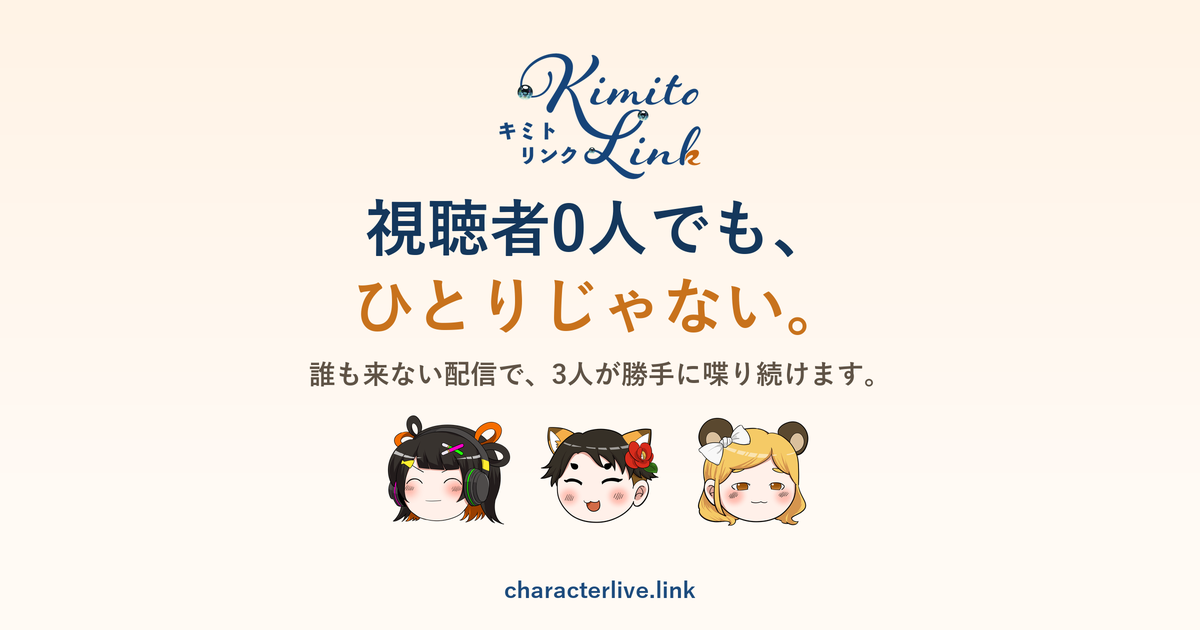
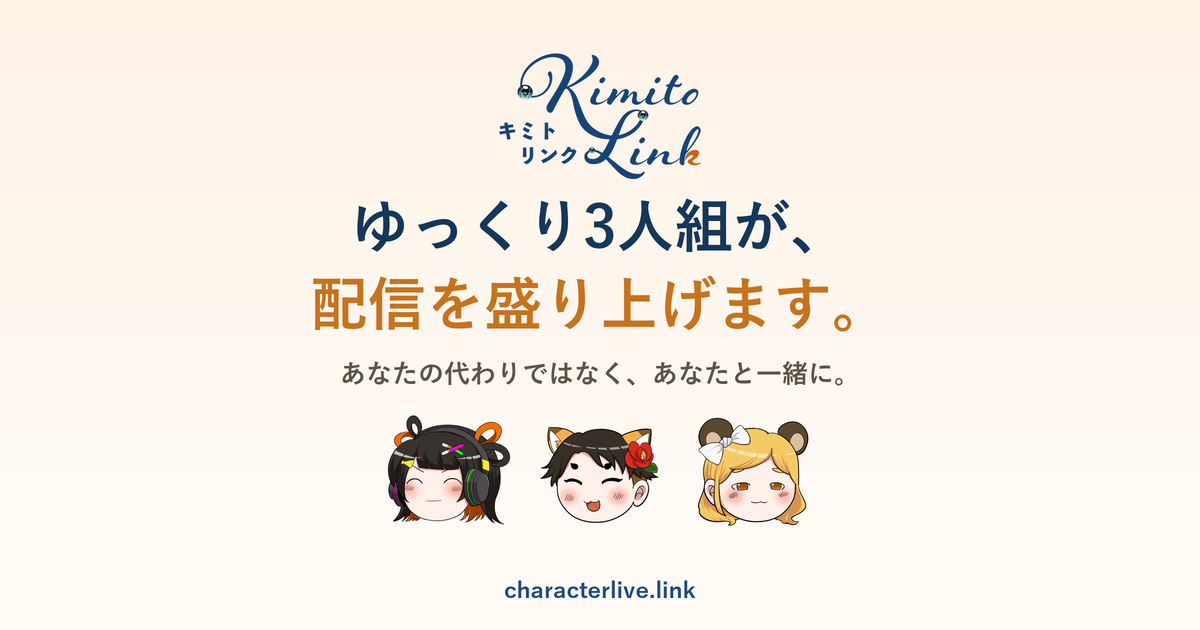
feat(lp): コピーをAに決定「ゆっくり3人組が、配信を盛り上げます。」
★会議で決定（調査に基づく方針転換）:

■ 孤独を言葉にしない
調査で【孤独を前面に出した製品だけが停止していた】(AI視聴者ジェネレーター
「配信に自信が持てないあなたへ」→更新終了)。一方 ai_licia は孤独ゼロで1万人超。
配信者は痛みを感じているが「人が来ないのは仕組みが無いだけ」と言われたい。
「寂しいですね」は"あなたの問題"にしてしまう。
さらに孤独訴求は【成長すると対象外になる】(200人に育つと当てはまらない)。
→ 痛みは【作業量】として書き直した（「ひとりで、全部やっている。」）。

■ 「置き換えではない」税を払う
市場首位 ai_licia もヒーローで "She is not here to replace you" と明言。
嫌われるのは「相方」ではなく【置き換え】だった。
→ 見出し直下に「あなたの代わりではなく、あなたと一緒に。」

■ 「0人でも、100人でも。」の節を新設
★参照事例(小幡友美さんのニコ生)は【視聴者が大勢いる】配信だった。
アンケートが72.4%/27.6%で機能し、視聴者はAIに突っ込んで楽しんでいた。
→ 3人は孤独の穴埋めでなく【話の種】。人が増えても居場所が消えない。

■ 視聴者側の逃げ道
追加調査で、TwitchのAI要約への反発は機能でなく【オフにできないこと】に
向いていたと判明。ニコニコは視聴者側にオフを付けて反応が穏やかだった。
→ 「いつでも黙らせられます」を明記。

■ ★訂正（重要）
以前「視聴者の生の声」として引用した2件は出典を確認できなかったため根拠から外した。
代わりに査読論文が同じ結論を支持している:
- Wu & Lingel (New Media & Society 2025):
  AIであることの透明性が存在感を構成する。エラーは壊さず作る。
- Ye et al. (arXiv 2509.10427, n=334): 非人間性こそが真正性の源。
予測ルール: 視聴者は「関係の席」を占めるAIを拒み、
「関係が回る対象」になるAIを受け入れる。

OGP画像・title・description も同じコピーに統一。実測で本番反映を確認。

Changed region(s): [[0.2467, 0.3016, 0.7092, 0.5429], [0.2467, 0.573, 0.74, 0.6333]]

diff --git a/index.html b/index.html
@@ -15,16 +15,16 @@
     -->
     <meta property="og:type" content="website" />
     <meta property="og:url" content="https://characterlive.link/" />
-    <meta property="og:title" content="視聴者0人でも、ひとりじゃない。 — characterlive" />
+    <meta property="og:title" content="ゆっくり3人組が、配信を盛り上げます。 — characterlive" />
     <!-- ★80字以内。WhatsApp の公式上限で、LINE もここを読む -->
-    <meta property="og:description" content="誰も来ない配信で、ゆっくり3人組が勝手に喋り続けます。無料。" />
+    <meta property="og:description" content="りんく・こん太・たぬ姉があなたの配信のそばにいて、勝手に喋ります。無料。" />
     <meta property="og:image" content="https://characterlive.link/assets/og/og-card.png" />
     <meta property="og:image:width" content="1200" />
     <meta property="og:image:height" content="630" />
     <meta property="og:image:type" content="image/png" />
     <meta
       property="og:image:alt"
-      content="りんく・こん太・たぬ姉の3人が並んだカード画像。視聴者0人でも、ひとりじゃない。"
+      content="りんく・こん太・たぬ姉の3人が並んだカード画像。ゆっくり3人組が、配信を盛り上げます。"
     />
     <meta property="og:site_name" content="characterlive" />
     <meta property="og:locale" content="ja_JP" />
@@ -32,10 +32,10 @@
     <!-- X は og: にフォールバックするので、twitter:card 以外は書かない（重複させない） -->
     <meta name="twitter:card" content="summary_large_image" />
 
-    <title>characterlive — 視聴者0人でも、ひとりじゃない。</title>
+    <title>characterlive — ゆっくり3人組が、配信を盛り上げます。</title>
     <meta
       name="description"
-      content="視聴者0人の配信でも、りんく・こん太・たぬ姉の3人がそばにいて勝手に喋ります。無料。開いた瞬間から動いているところを、このページでそのまま見られます。Kimito-Link Project。"
+      content="ゆっくり3人組（りんく・こん太・たぬ姉）が配信のそばにいて、勝手に喋ります。あなたの代わりではなく、あなたと一緒に。無料。動いているところをこのページでそのまま見られます。Kimito-Link Project。"
     />
     <link rel="canonical" href="https://characterlive.link/" />
 
@@ -276,9 +276,11 @@
           width="800" height="600"
           fetchpriority="high" decoding="async"
         />
-        <h1>視聴者0人でも、<br /><b>ひとりじゃない。</b></h1>
+        <h1>ゆっくり3人組が、<br /><b>配信を盛り上げます。</b></h1>
         <p class="sub">
-          誰も来ない配信で、3人が勝手に喋り続けます。<br />
+          <!-- ★「置き換えではない」税をヒーローで払う。
+               嫌われるのは「相方」ではなく【置き換え】だと調査で判明した。 -->
+          あなたの代わりではなく、あなたと一緒に。<br />
           いま下で動いているのが、その本物です。
         </p>
       </div>
@@ -287,17 +289,27 @@
     <main id="stage" aria-label="3人のキャラクターが浮かんで会話しているデモ"></main>
     <p class="stage-note"><span class="live" aria-hidden="true"></span>操作していません。勝手に喋っています。</p>
 
-    <!-- ================= 痛み ================= -->
+    <!-- =================
+      ★痛みの見せ方（2026-09-04 会議で方針変更）
+        以前は「虚しい」「辛い」など【孤独】を直接書いていた。やめた。
+        調査で、孤独を前面に出した製品だけが停止していた（AI視聴者ジェネレーター）。
+        配信者は痛みを感じているが「人が来ないのは仕組みが無いだけで、あなたのせいではない」
+        と言われたい。「寂しいですね」と書くと"あなたの問題"にしてしまう。
+        → 個人の資質ではなく【作業量】の問題として書く（Sidekick の型）。
+    ================= -->
     <section>
       <div class="wrap">
-        <h2>2時間しゃべって、コメント0件。</h2>
-        <p class="lead">実際に配信している人の言葉です。</p>
-        <blockquote>「2時間配信して、コメントがゼロだった…虚しい。やめたくなる。」</blockquote>
-        <blockquote>「視聴者が0人の画面に向かって話し続けるのが辛くなってきました」</blockquote>
+        <h2>ひとりで、全部やっている。</h2>
+        <p class="lead">
+          喋る。ゲームを進める。コメントを拾う。間を持たせる。——ぜんぶ同時に。
+        </p>
+        <blockquote>
+          ひとりでやる配信は、<strong>3人分の仕事</strong>を1人でやっているようなものです。
+        </blockquote>
         <p class="muted small">
-          伸び悩む配信者への定番の助言は、いつも同じです。<strong>「絶対に無言になってはいけない」</strong>。
-          ——分かっていても、誰も居ない部屋でひとりで喋り続けるのは、しんどい。
-          <br />characterlive は、その助言を肩代わりします。
+          配信の定番の助言は、いつも同じです。<strong>「絶対に無言になってはいけない」</strong>。
+          ——分かっていても、喋り続けながら他のことをやるのは、単純に大変です。
+          <br />characterlive は、その一部を肩代わりします。
         </p>
       </div>
     </section>
@@ -305,8 +317,8 @@
     <!-- ================= どうなるか ================= -->
     <section>
       <div class="wrap">
-        <h2>その部屋を、うるさくします。</h2>
-        <p class="lead">3人が勝手に喋ります。あなたが黙っていても、間が空きません。</p>
+        <h2>間が空きません。</h2>
+        <p class="lead">3人が勝手に喋ります。あなたが黙っていても、場が途切れません。</p>
         <div class="steps">
           <div class="step">
             <b>開くだけ。設定はいりません</b>
@@ -323,6 +335,42 @@
           <div class="step">
             <b>たまに、遠慮なく言います</b>
             <span>ずっと褒めるだけだと飽きます。時々ツッコみます。ただし最後は味方です。</span>
+          </div>
+        </div>
+      </div>
+    </section>
+
+    <!-- =================
+      ★「人がいる配信でも使える」を明示（2026-09-04 追加）
+        参照事例（小幡友美さんのニコ生）は【視聴者が大勢いる】配信だった。
+        アンケートが「やろう 72.4% / やめとけ 27.6%」と機能しており、票が集まる人数がいた。
+        視聴者はAIに突っ込んで楽しんでいた（「ポンコツAIに聞け」「みんなのがやさしい」）。
+        → 3人は"孤独の穴埋め"ではなく【話の種】として機能する。
+        → 孤独訴求だと成長した配信者が対象外になる。ここを書くことで長く使える製品になる。
+    ================= -->
+    <section>
+      <div class="wrap">
+        <h2>0人でも、100人でも。</h2>
+        <p class="lead">人が増えても、居場所がなくなりません。</p>
+        <div class="steps">
+          <div class="step">
+            <b>誰も居ないとき</b>
+            <span>3人が勝手に喋ります。間が空かないので、ひとりで喋り続けなくて済みます。</span>
+          </div>
+          <div class="step">
+            <b>人が来たとき</b>
+            <span>
+              3人は<strong>話の種</strong>になります。変なことを言えば視聴者が突っ込みます。
+              実際、AIに相談する配信は切り抜かれて広がっています。
+            </span>
+          </div>
+          <div class="step">
+            <b>ずっと変わらないこと</b>
+            <span>
+              ★<strong>主役はあなたです。</strong>3人は前に出ません。
+              あなたが喋っているときは黙り、間が空いたときだけ口を開きます。
+              いつでも黙らせられます。
+            </span>
           </div>
         </div>
       </div>

diff --git a/scripts/build-ogp.py b/scripts/build-ogp.py
@@ -106,8 +106,14 @@ def main():
     img.paste(logo, ((cw - logo_w) // 2, int(30 * S)), logo)
 
     # ---- 見出し（2行・中央）----
-    f_main = font(int(62 * S))
-    lines = ["視聴者0人でも、", "ひとりじゃない。"]
+    f_main = font(int(58 * S))
+    # ★コピー（2026-09-04 会議で決定）
+    #   「孤独」を言葉にしない。調査で、孤独を前面に出した製品だけが停止していた
+    #   （AI視聴者ジェネレーター）。配信者は「人が来ないのは仕組みが無いだけで
+    #   あなたのせいではない」と言われたい。「寂しい」と書くと"あなたの問題"になる。
+    #   さらに孤独訴求は【成長すると対象外になる】（200人に育つと当てはまらない）。
+    #   → 娯楽（盛り上げ）を主役にする。0人でも大勢でも成立する。
+    lines = ["ゆっくり3人組が、", "配信を盛り上げます。"]
     y = int(196 * S)
     for i, line in enumerate(lines):
         color = ORANGE if i == 1 else NAVY_DEEP
@@ -116,8 +122,11 @@ def main():
         y += int(78 * S)
 
     # ---- 説明（1行・中央）----
-    f_sub = font(int(27 * S))
-    sub = "誰も来ない配信で、3人が勝手に喋り続けます。"
+    f_sub = font(int(26 * S))
+    # ★「置き換えではない」税を必ず払う。市場首位の ai_licia もヒーローコピーで
+    #   "She's not here to replace you" と明言している。嫌われるのは「相方」では
+    #   なく【置き換え】。AIが配信者の出番を奪うか増やすかが分かれ目だった。
+    sub = "あなたの代わりではなく、あなたと一緒に。"
     bbox = d.textbbox((0, 0), sub, font=f_sub)
     d.text(((cw - (bbox[2] - bbox[0])) // 2, y + int(8 * S)), sub, font=f_sub, fill=MUTED)
 
